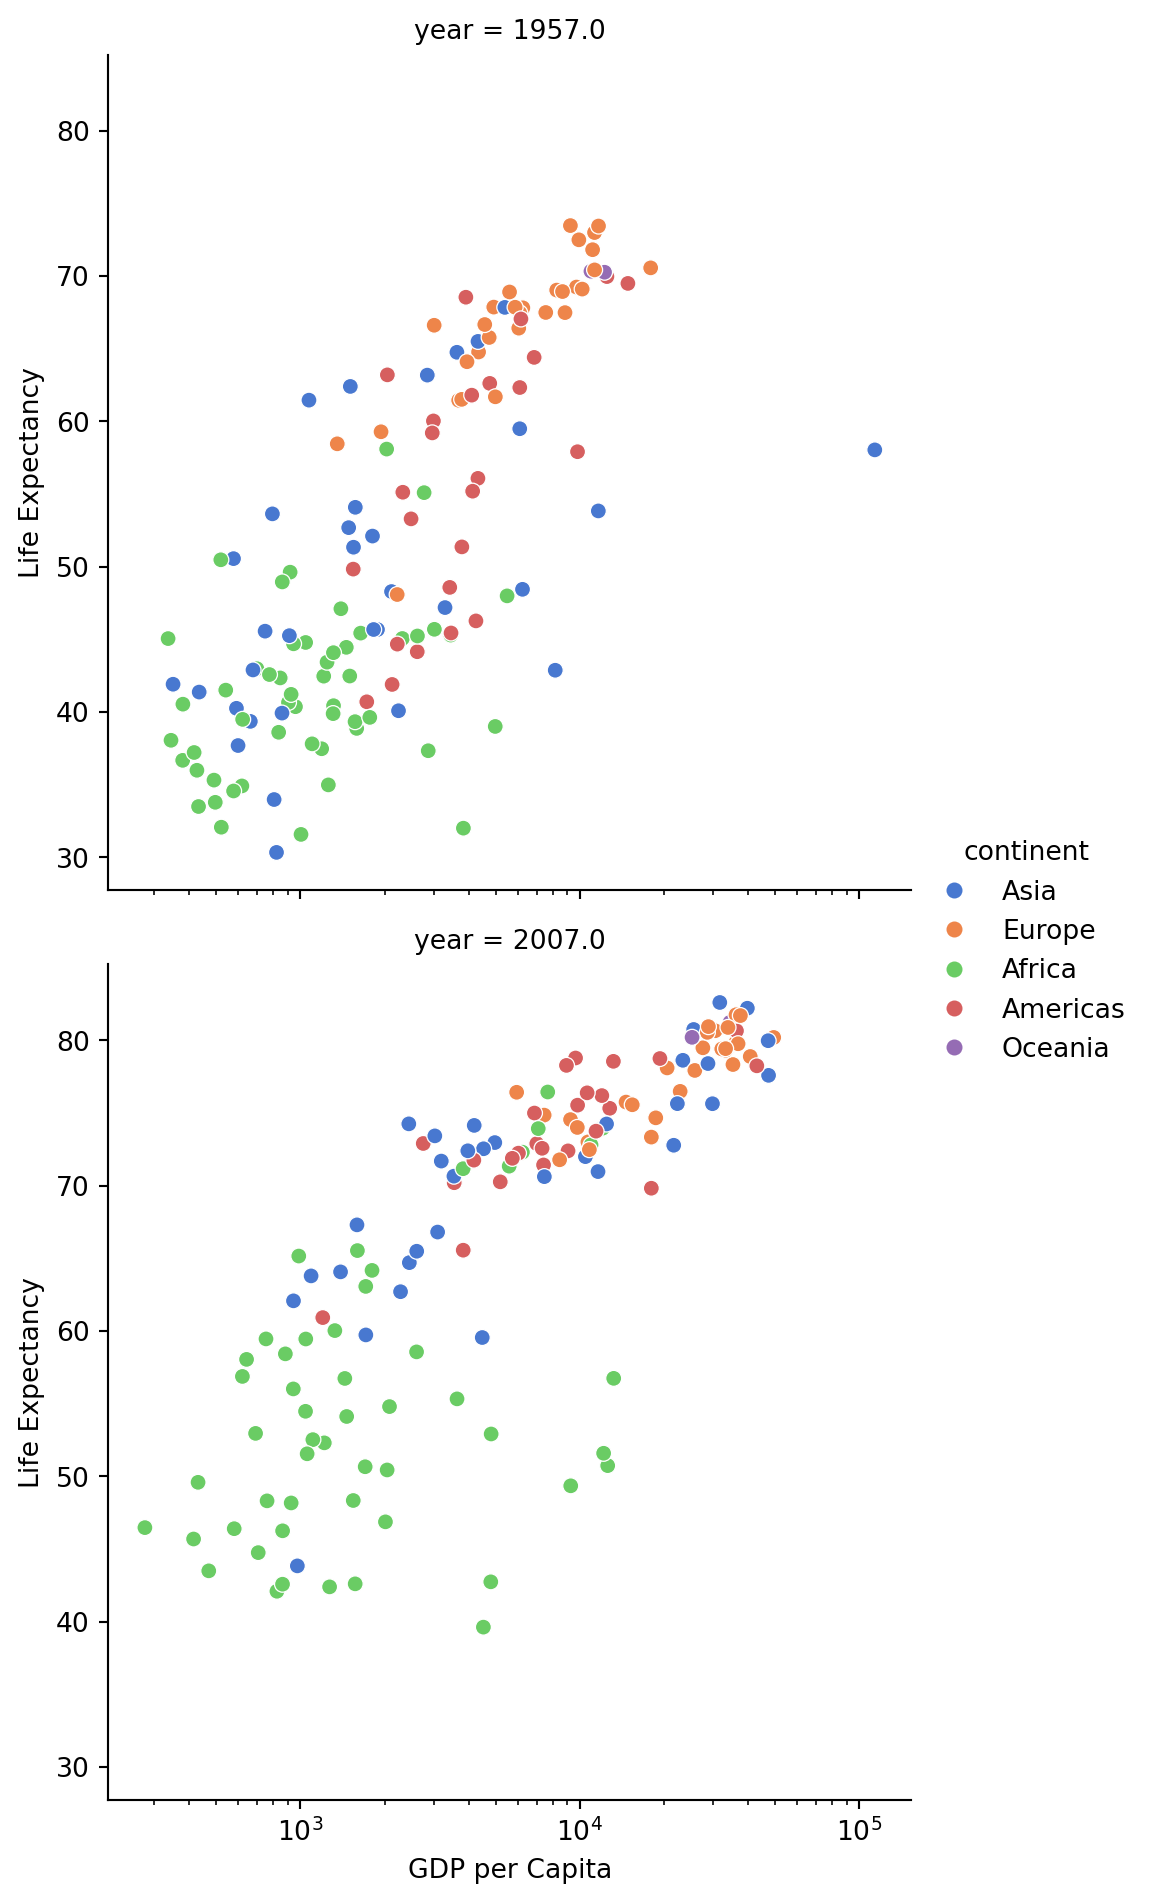
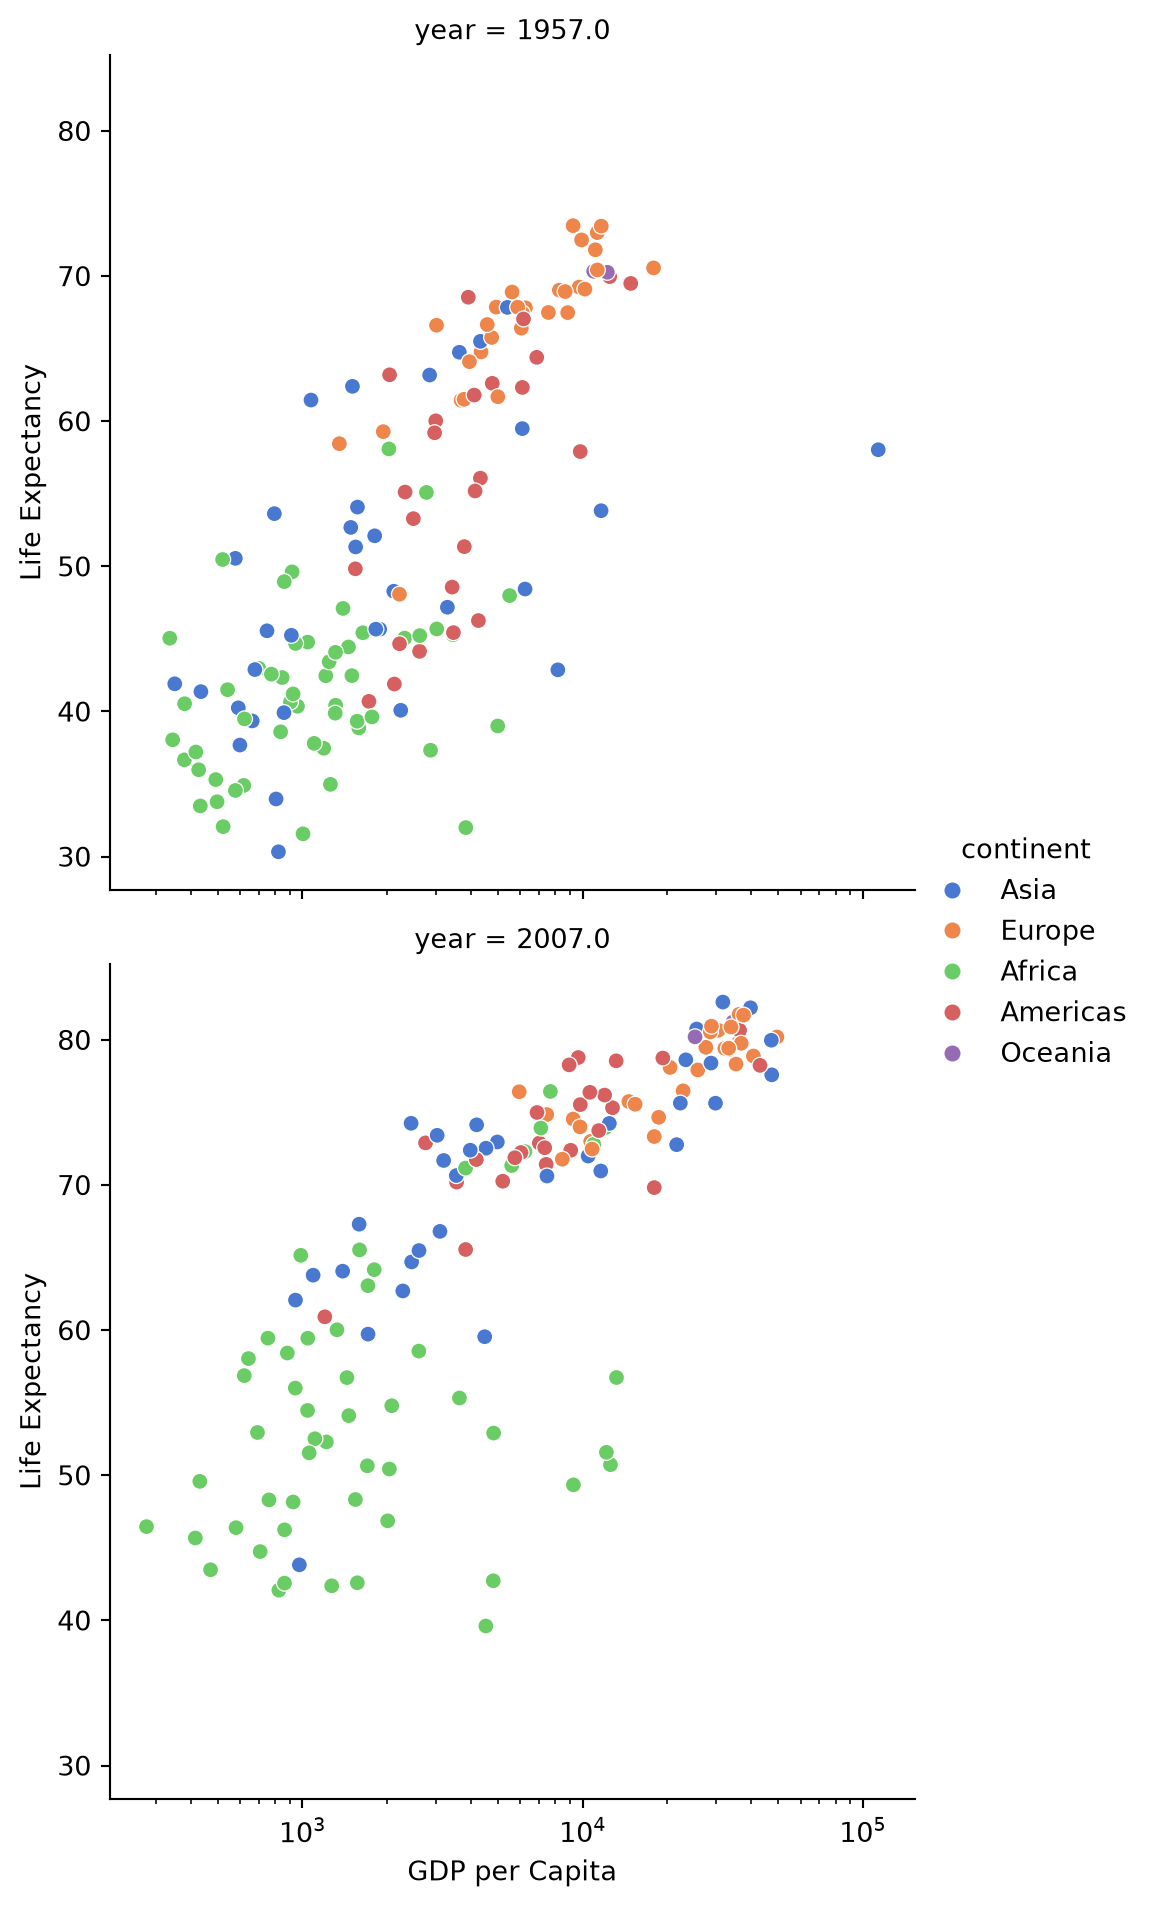
Align templates, contributor docs, and software taxonomy with site conventions
- page-template.qmd: add the categories (Diataxis) field and the
  de-facto lead-summary and Key Takeaways patterns pages already use
- CONTRIBUTING.qmd: fix the frontmatter example (description -> abstract,
  matching every real page), document the categories field, sidebar
  registration for new pages, and the shared section-landing style
- styles.css: style .custom-summary-block, used on 20 pages but
  previously rendered as an unstyled div
- _quarto.yml: unify the software taxonomy with software/index.qmd -
  Development Environments groups VS Code with Virtual Environments,
  and the navbar menu gains Software Overview and Virtual Environments
- Refresh the stale freeze cache for software/python/index.qmd, clearing
  the long-standing unresolved-link warning for software/guides/venv.qmd

diff --git a/assets/design-styles/styles.css b/assets/design-styles/styles.css
@@ -6,6 +6,30 @@
    (Gelasio headings, Arimo body) — do not redeclare them here. */
 
 /*===========================
+  Lead summary block
+  (::: {.custom-summary-block} at the top of a page)
+=============================*/
+
+.custom-summary-block {
+  font-size: 1.05em;
+  border-left: 4px solid #49ac57;
+  padding: 0.75em 1.25em;
+  margin-bottom: 1.5rem;
+}
+
+body.quarto-light .custom-summary-block {
+  background-color: rgb(247, 249, 251);
+}
+
+body.quarto-dark .custom-summary-block {
+  background-color: rgba(255, 255, 255, 0.05);
+}
+
+.custom-summary-block p:last-child {
+  margin-bottom: 0;
+}
+
+/*===========================
   Diataxis type badge
   (rendered by title-block.html from the page's categories metadata)
 =============================*/
